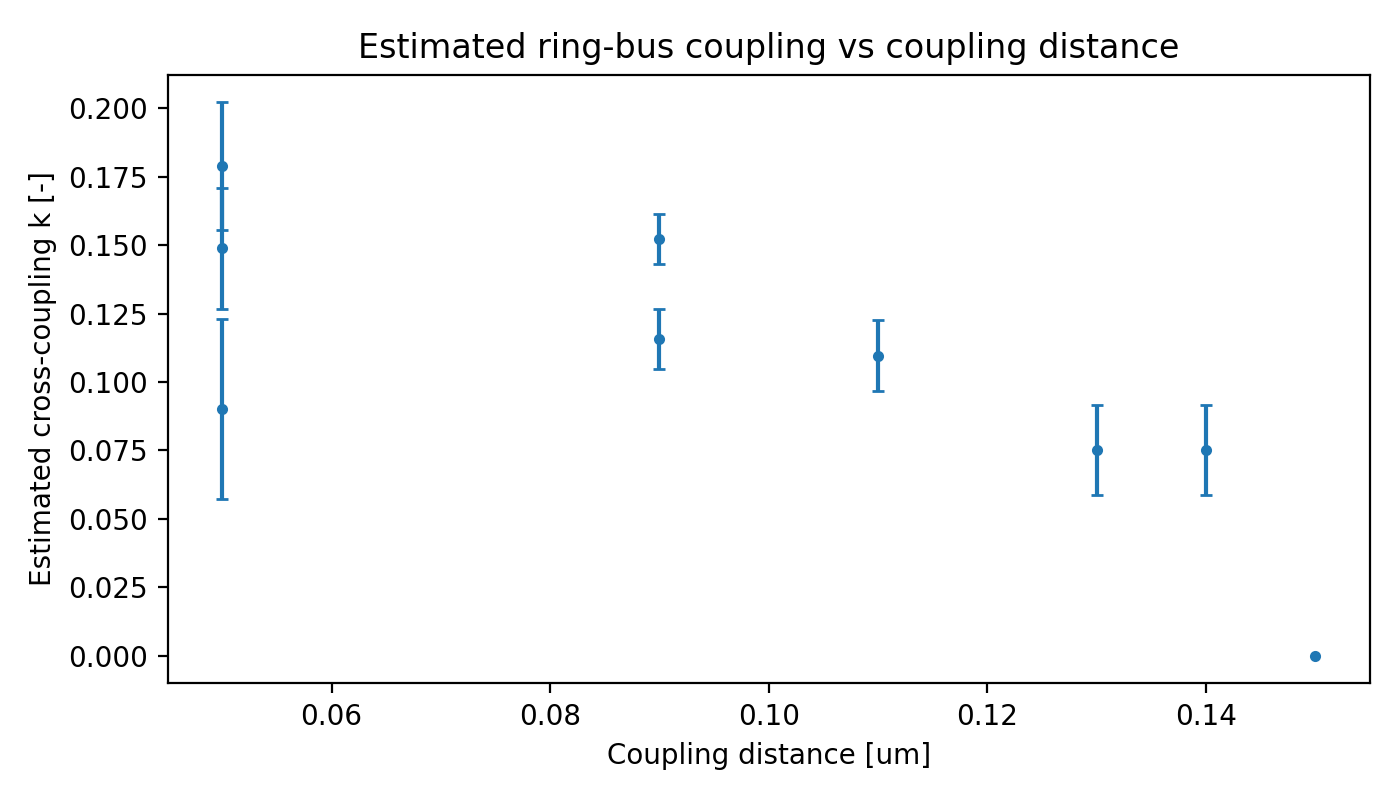
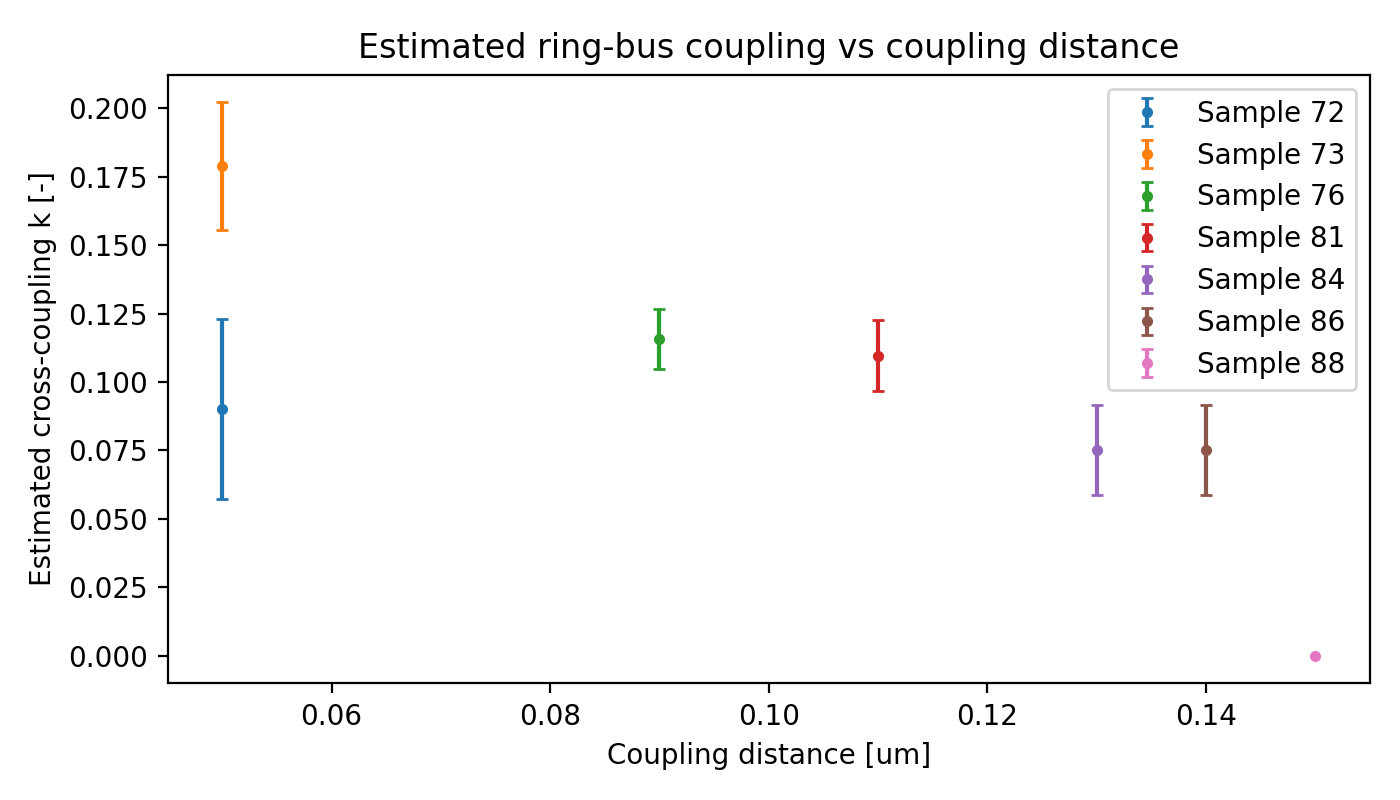
a

diff --git a/Plotter/resonator_parameters_estimation.py b/Plotter/resonator_parameters_estimation.py
@@ -568,13 +568,38 @@ def make_comparison_plots(coupling_rows, output_dir, args):
     fig.savefig(output_dir / "finesse_vs_coupling_distance.png", dpi=args.plot_dpi)
     plt.close(fig)
 
-    k = np.array([row.get("cross_coupling_k", np.nan) for row in coupling_rows], dtype=float)
-    kerr = np.array([row.get("sigma_cross_coupling_k", np.nan) for row in coupling_rows], dtype=float)
+    plot_rows = [
+        row for row in coupling_rows
+        if not (row["structure"].startswith("mple 73") and "SECOND MEASUREMENT" in row["structure"])
+        and not (
+            row["structure"].startswith("mple 76")
+            and not ("SECOND MEASUREMENT" in row["structure"])
+        )
+    ]
+
+    dist = np.array([row["coupling_distance_um"] for row in plot_rows], dtype=float)
+    k = np.array([row.get("cross_coupling_k", np.nan) for row in plot_rows], dtype=float)
+    kerr = np.array([row.get("sigma_cross_coupling_k", np.nan) for row in plot_rows], dtype=float)
+    order = np.argsort(dist)
+
     fig, ax = plt.subplots(figsize=(7, 4))
-    ax.errorbar(dist[order], k[order], yerr=kerr[order], fmt=".", capsize=2)
+    for i in order:
+        sample_match = re.match(r"Sample\s+\d+", plot_rows[i]["structure"])
+        #print(plot_rows[i]["structure"])
+        sample_label = "Sample " + plot_rows[i]["structure"][5:7]#sample_match.group(0) if sample_match else plot_rows[i]["structure"]
+        ax.errorbar(
+            dist[i],
+            k[i],
+            yerr=kerr[i],
+            fmt=".",
+            capsize=2,
+            label=sample_label,
+        )
+
     ax.set_xlabel("Coupling distance [um]")
     ax.set_ylabel("Estimated cross-coupling k [-]")
     ax.set_title("Estimated ring-bus coupling vs coupling distance")
+    ax.legend(loc="upper right")
     fig.tight_layout()
     fig.savefig(output_dir / "k_vs_coupling_distance.png", dpi=args.plot_dpi)
     plt.close(fig)